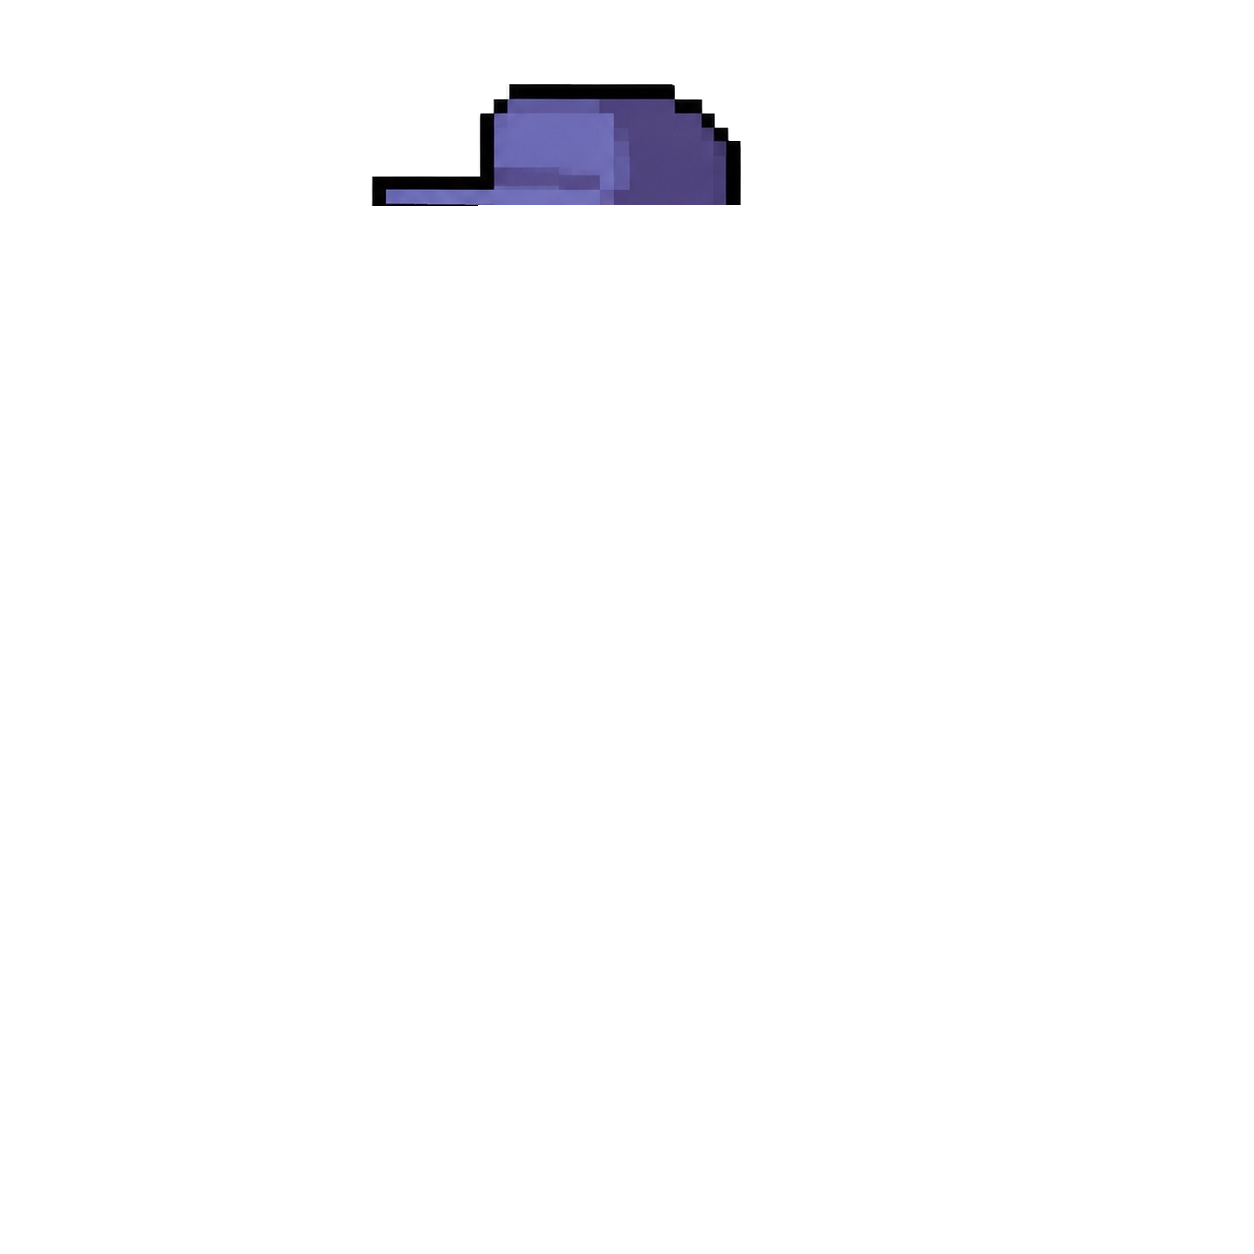
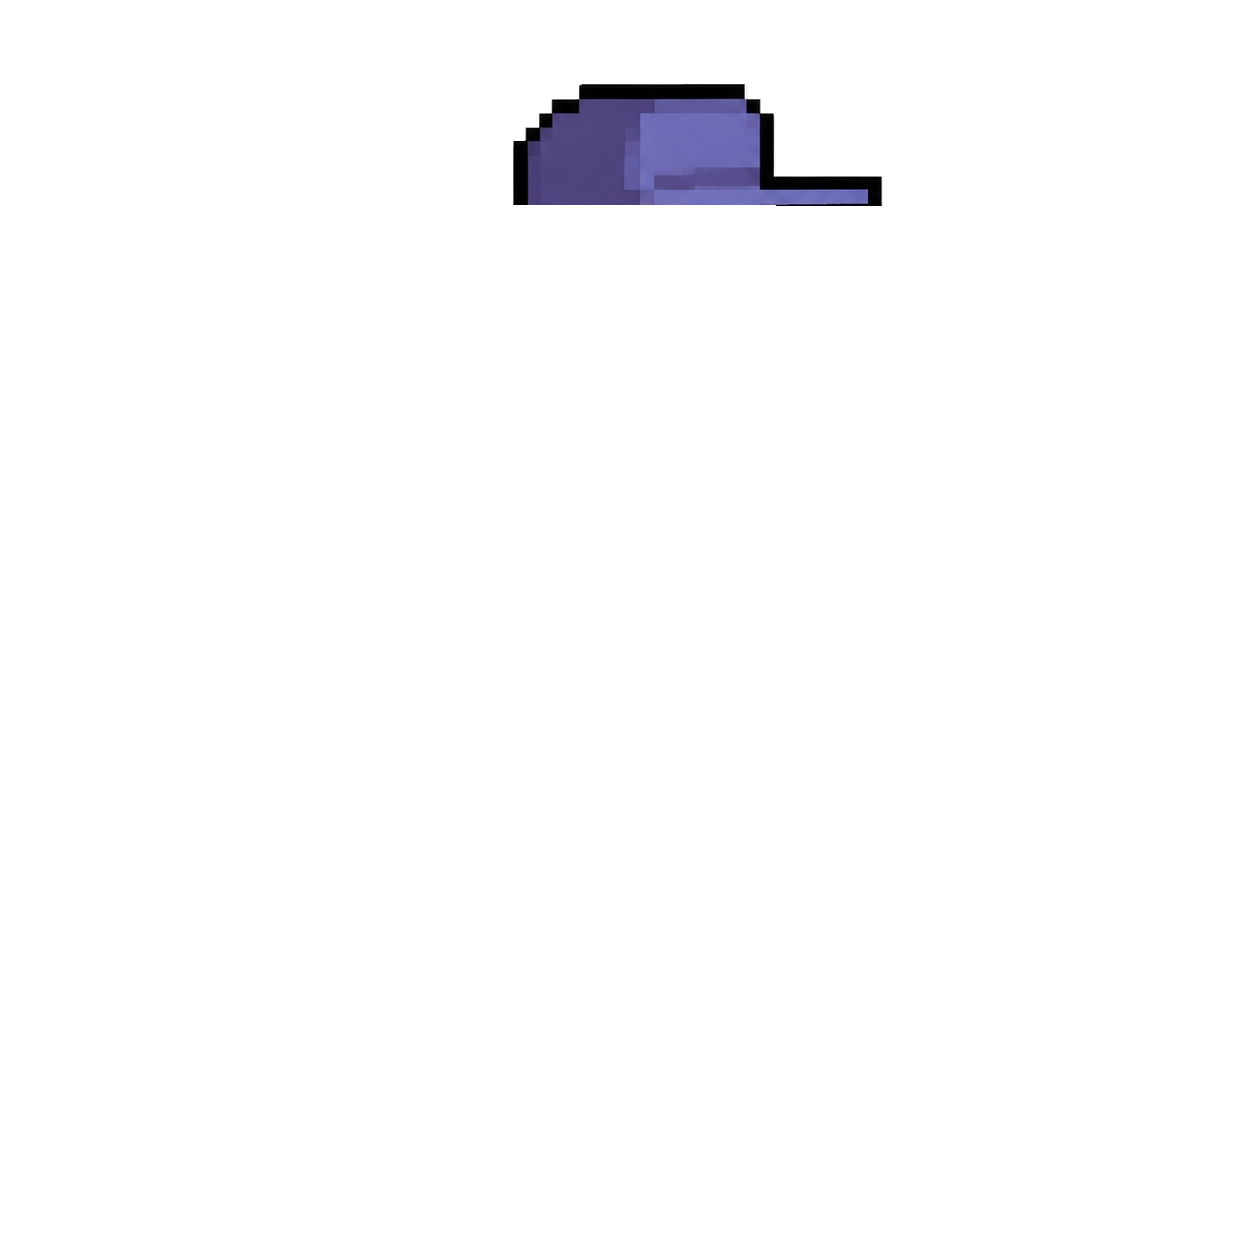
Purple hat: flip east/west, south idle up 4px (v2.3.317)
- East texture was facing the wrong way -> flipped horizontally (west
  mirrors from it, so both fixed). Anchor recomputed (120->135).
- poseNudge.stand.south=[0,-4]: south idle sat low vs the run (stand
  sheet crown differs from jog), lift idle only.

Changed region(s): [[0.2799, 0.0622, 0.7153, 0.1866]]

diff --git a/src/rendering/systems/entityRenderer.js b/src/rendering/systems/entityRenderer.js
@@ -47,7 +47,7 @@ function _ensureHudBarTextures() {
    Currently hard-coded to the `test-1` NFT for demo; later this will
    read the active player's NFT ID from R.nftId or similar. */
 const TRAIT_NFT_ID = 'test-1';
-const TRAIT_VER = '2.3.316';
+const TRAIT_VER = '2.3.317';
 
 /* v2.3.266: standalone-item sticker pipeline.  Each item (e.g.
    headwear/old-school-helmet) is a small transparent PNG with a
